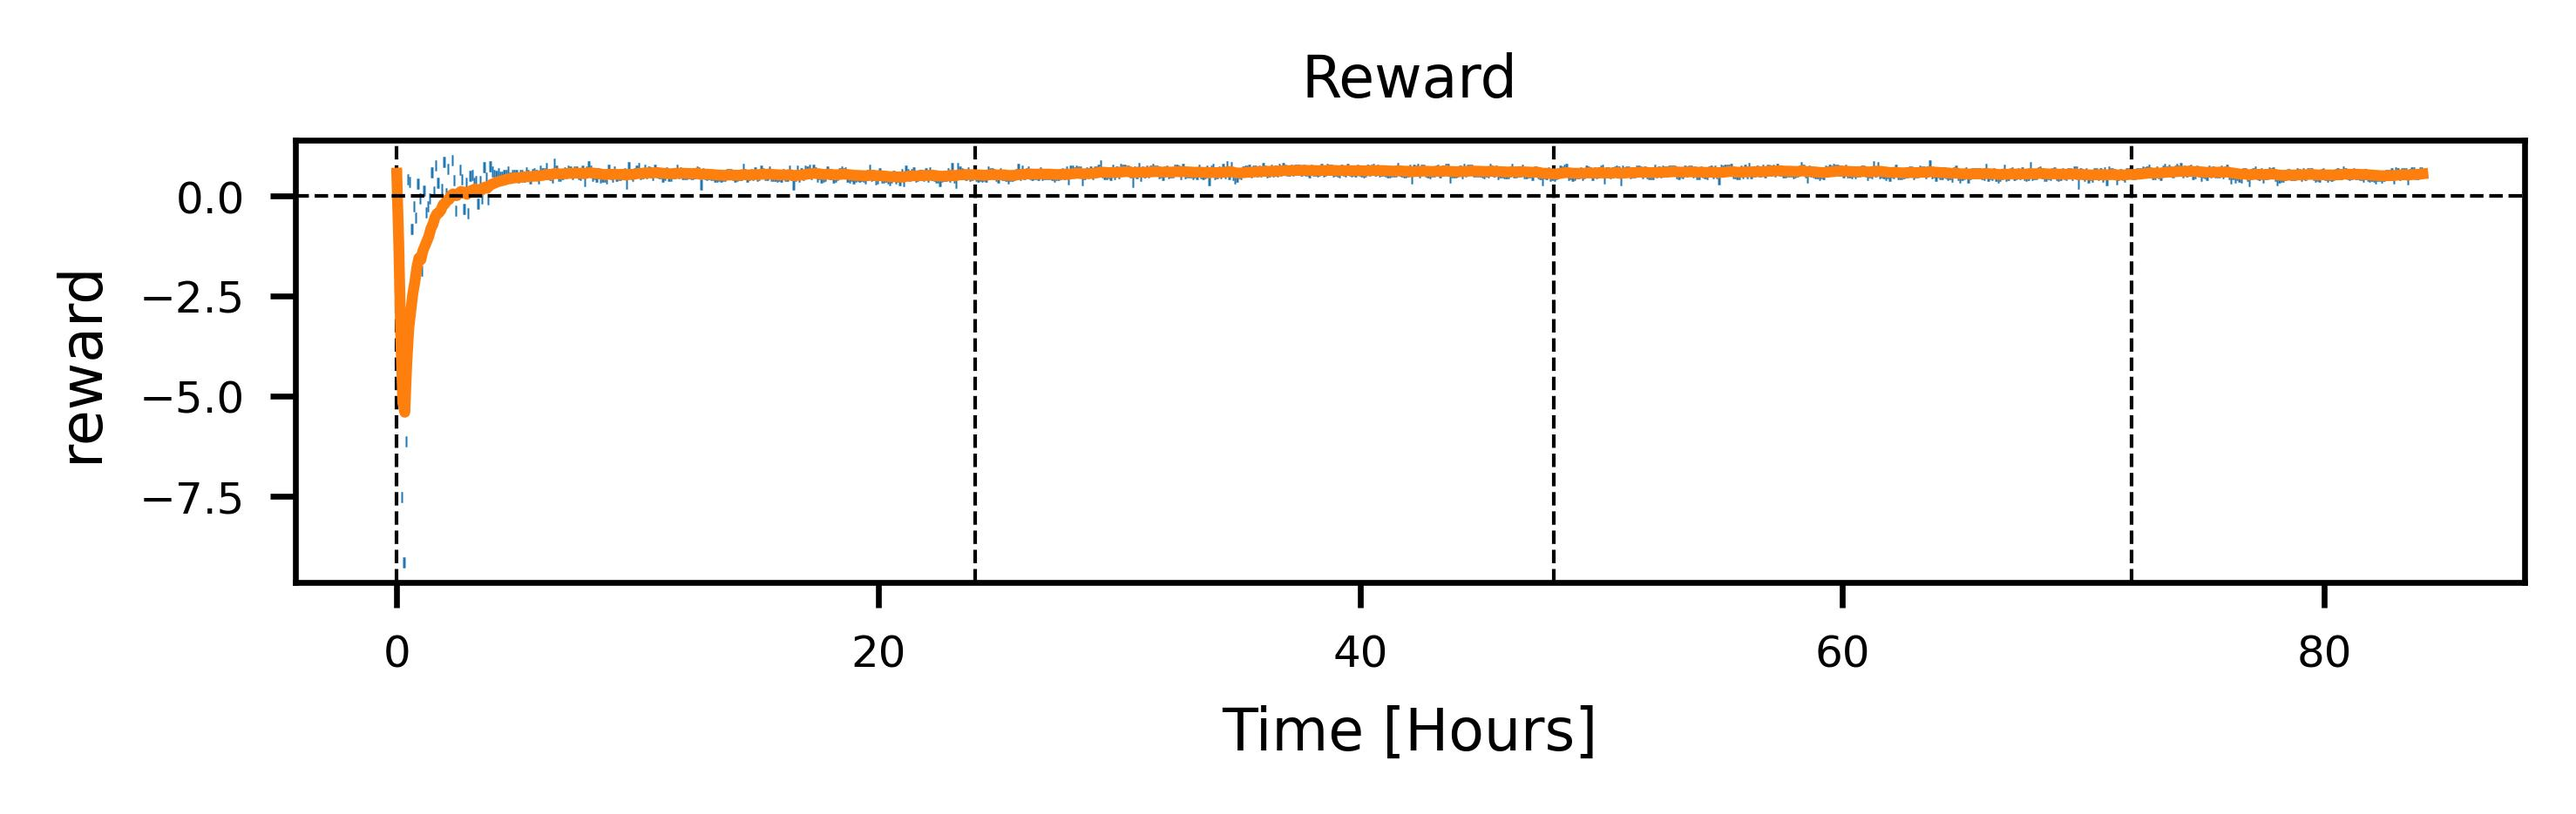
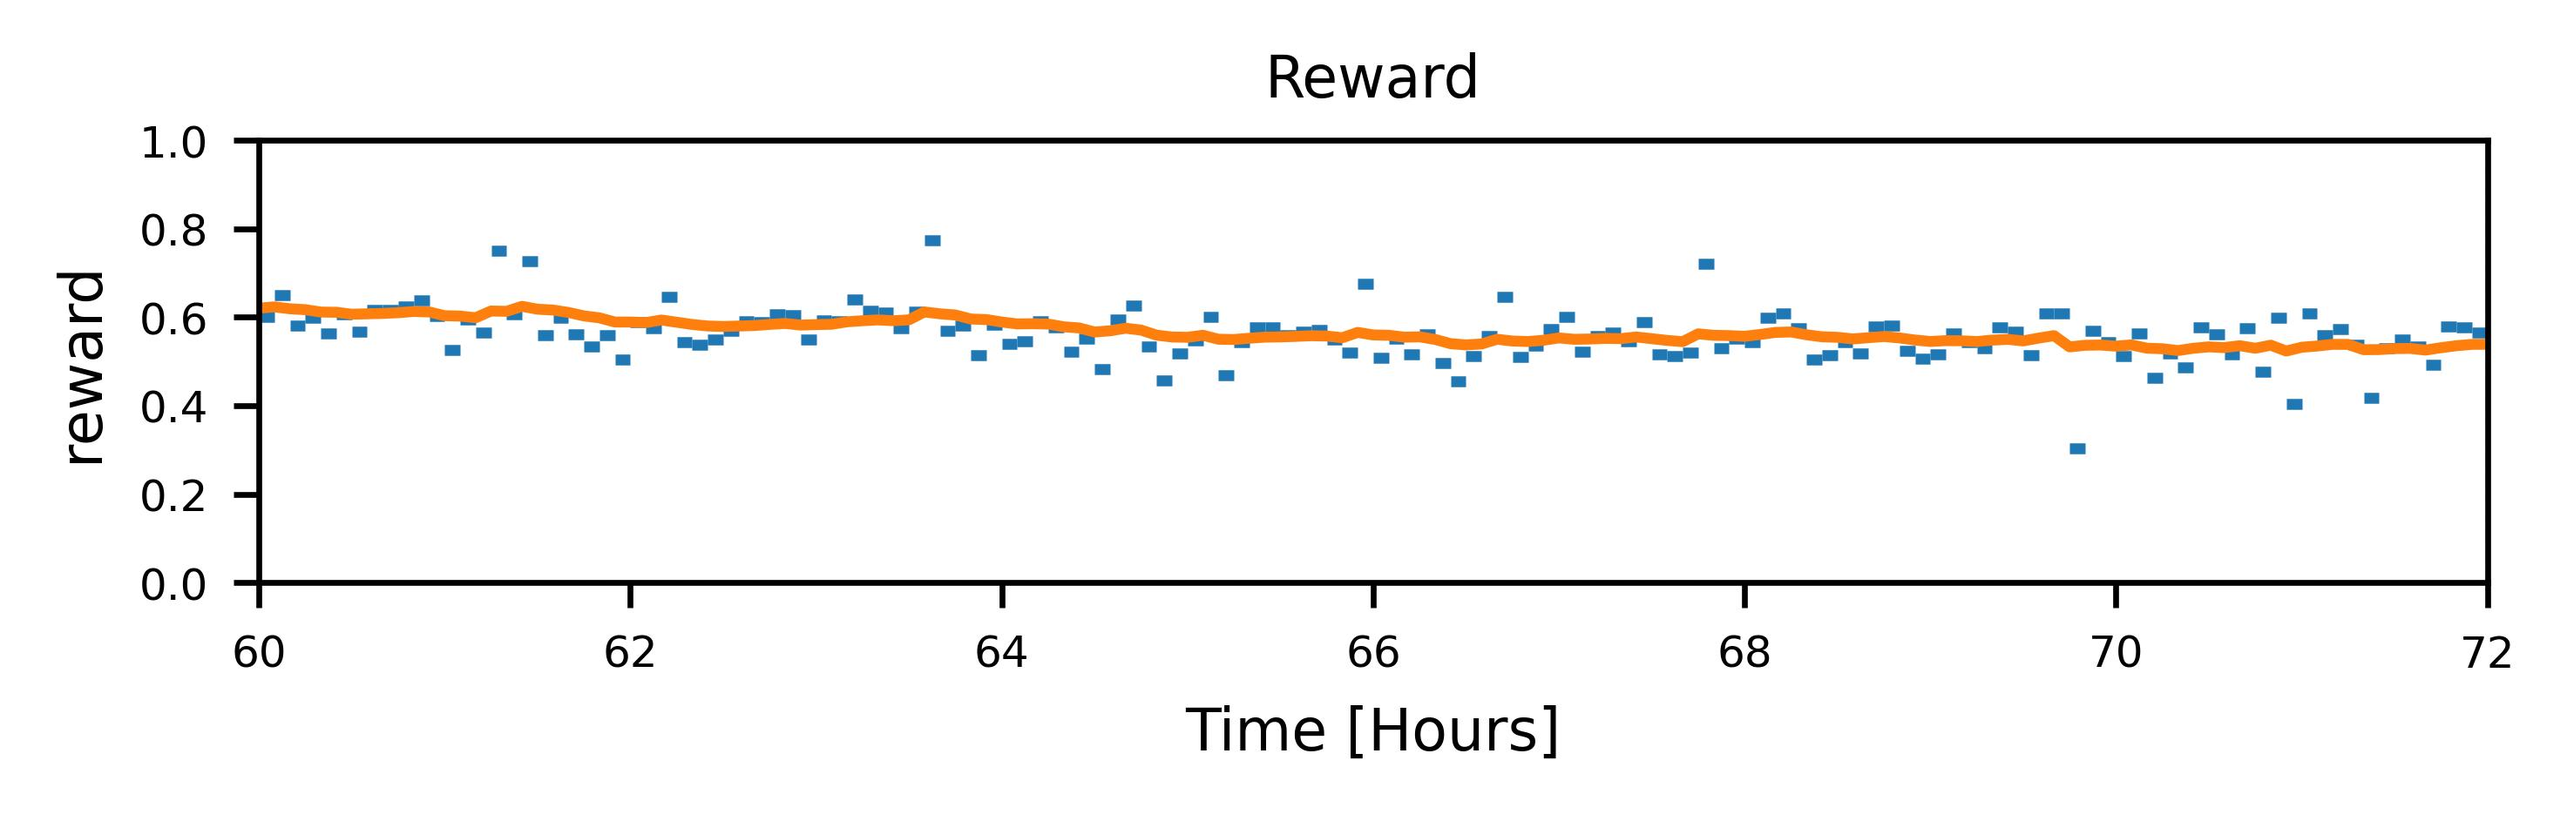
analyze exp 1 data

diff --git a/experiments/online/E5/P4/learning_curves.py b/experiments/online/E5/P4/learning_curves.py
@@ -125,6 +125,7 @@ def main():
                         y=yj[i], xmin=x_plot[i], xmax=x_plot[i + 1], color="C0", label=f"{alg}" if i == 0 else None
                     )
                 ax.set_ylabel(metric + f"[{j}]" if m > 1 else metric)
+                ax.set_xlim([60,72])
                 for k in range(total_days + 1):
                     ax.axvline(x=24 * k, color="k", linestyle="--", linewidth=0.5)
                 if metric in {"area", "reward"}:
@@ -139,6 +140,7 @@ def main():
                     ax.axhline(y=0, color="k", linestyle="--", linewidth=0.5)
                     _, returns = compute_step_return(x, yj, len(x))
                     total_return = np.sum(returns)
+                    ax.set_ylim([0,1])
                     print(f"Return: {total_return:.2f}")
             if metric == "area":
                 # plot IQM of the area
